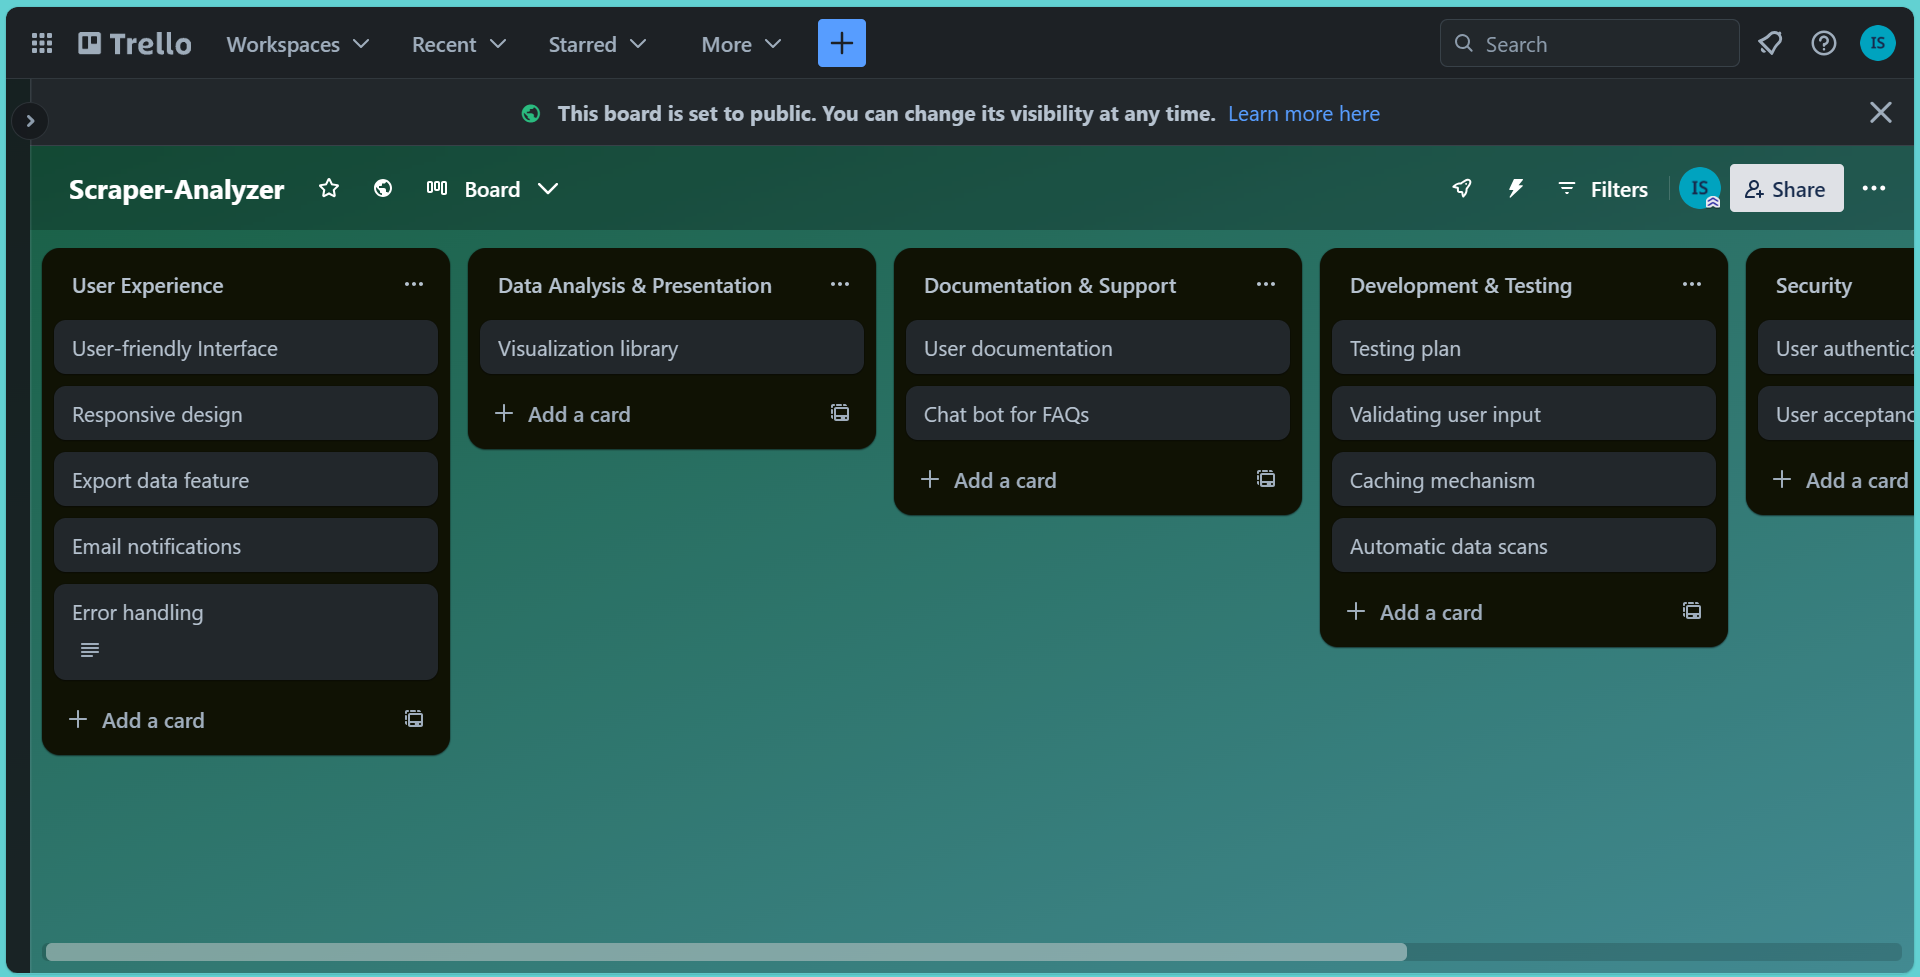
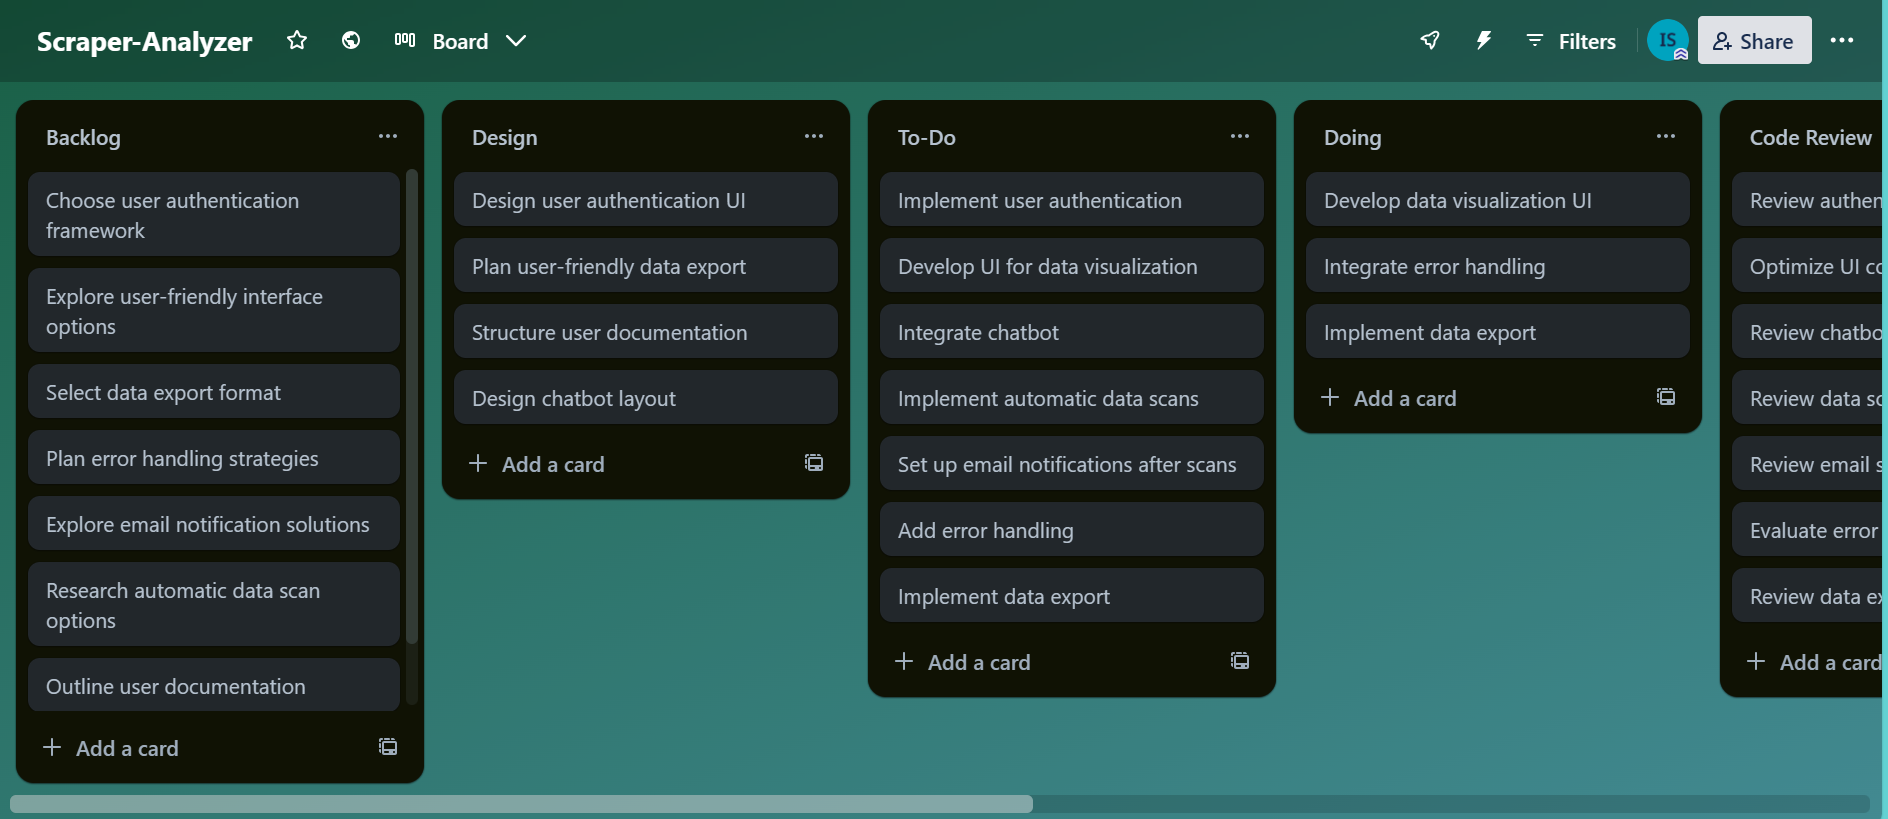
modified requirements engineering boards

diff --git a/analyzer.py b/analyzer.py
@@ -1,4 +1,4 @@
-import scraper
+#import scraper
 import pandas as pd
 import matplotlib.pyplot as plt
 import seaborn as sns

diff --git a/README.md b/README.md
@@ -30,10 +30,10 @@ Scraper-Analyzer aims to simplify the process of extracting and analyzing data f
 
 ## Requirements Engineering
 Requirements are mapped using:
-1. [Trello](https://trello.com/b/Fu2rZBkf/scraper-analyzer) - This board can be viewed via the link
-2. [Jira](https://ipshita.atlassian.net/jira/software/projects/SCRAP/boards/2) - This board can only be viewed via invite!
+1. [Trello](https://trello.com/b/Fu2rZBkf/scraper-analyzer) - Requirements have been mapped using the Kanban method. This board can be accessed via the link.
+2. [Jira](https://ipshita.atlassian.net/jira/software/projects/SCRAP/boards/2) - Requirements have been mapped using the Kanban method. This board can only be accessed via invite! 
 
-Trello has been used to keep track of the project's requirements and features. While Jira has been used to track of pending, ongoing and completed tasks in the following manner-
+Both Trello and Jira has been used to manage the project's requirements and features and to keep track of pending, ongoing and completed tasks in the following manner-
 - Trello 
 
 <img src="https://raw.githubusercontent.com/IpshitaSingh/scraper-analyzer/main/Requirements%20Engineering/Trello.png" width="800">
